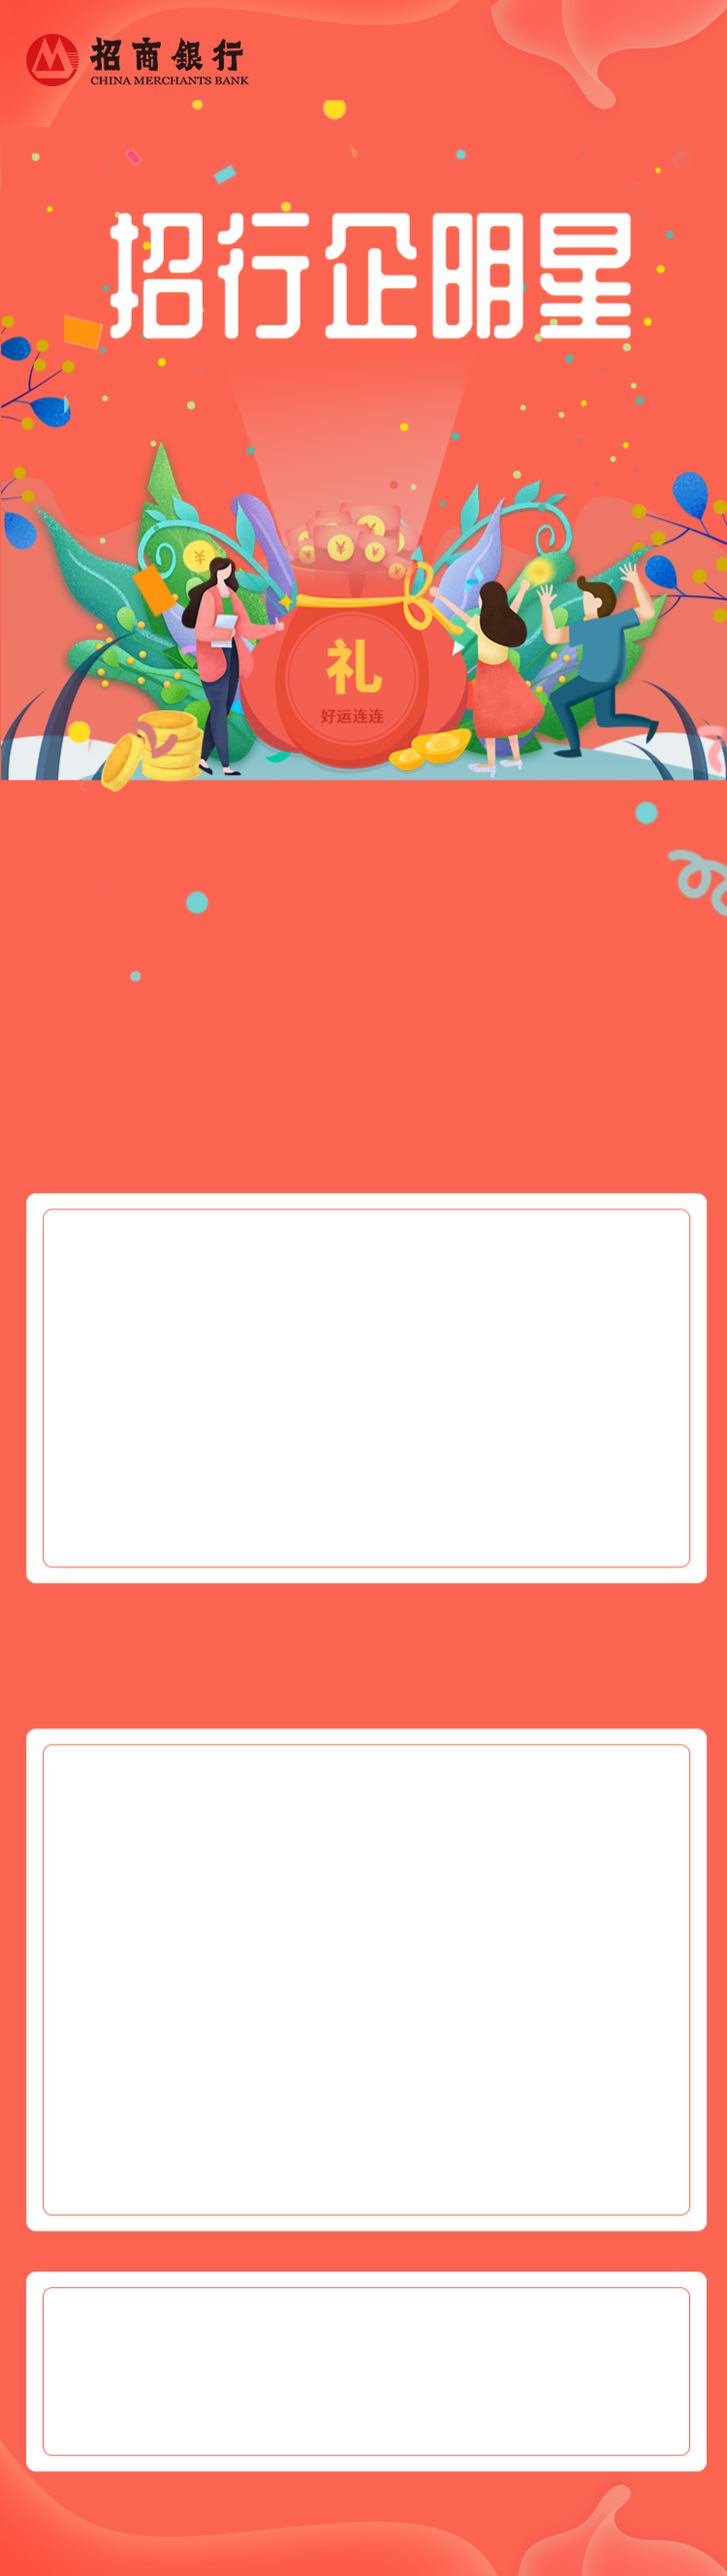
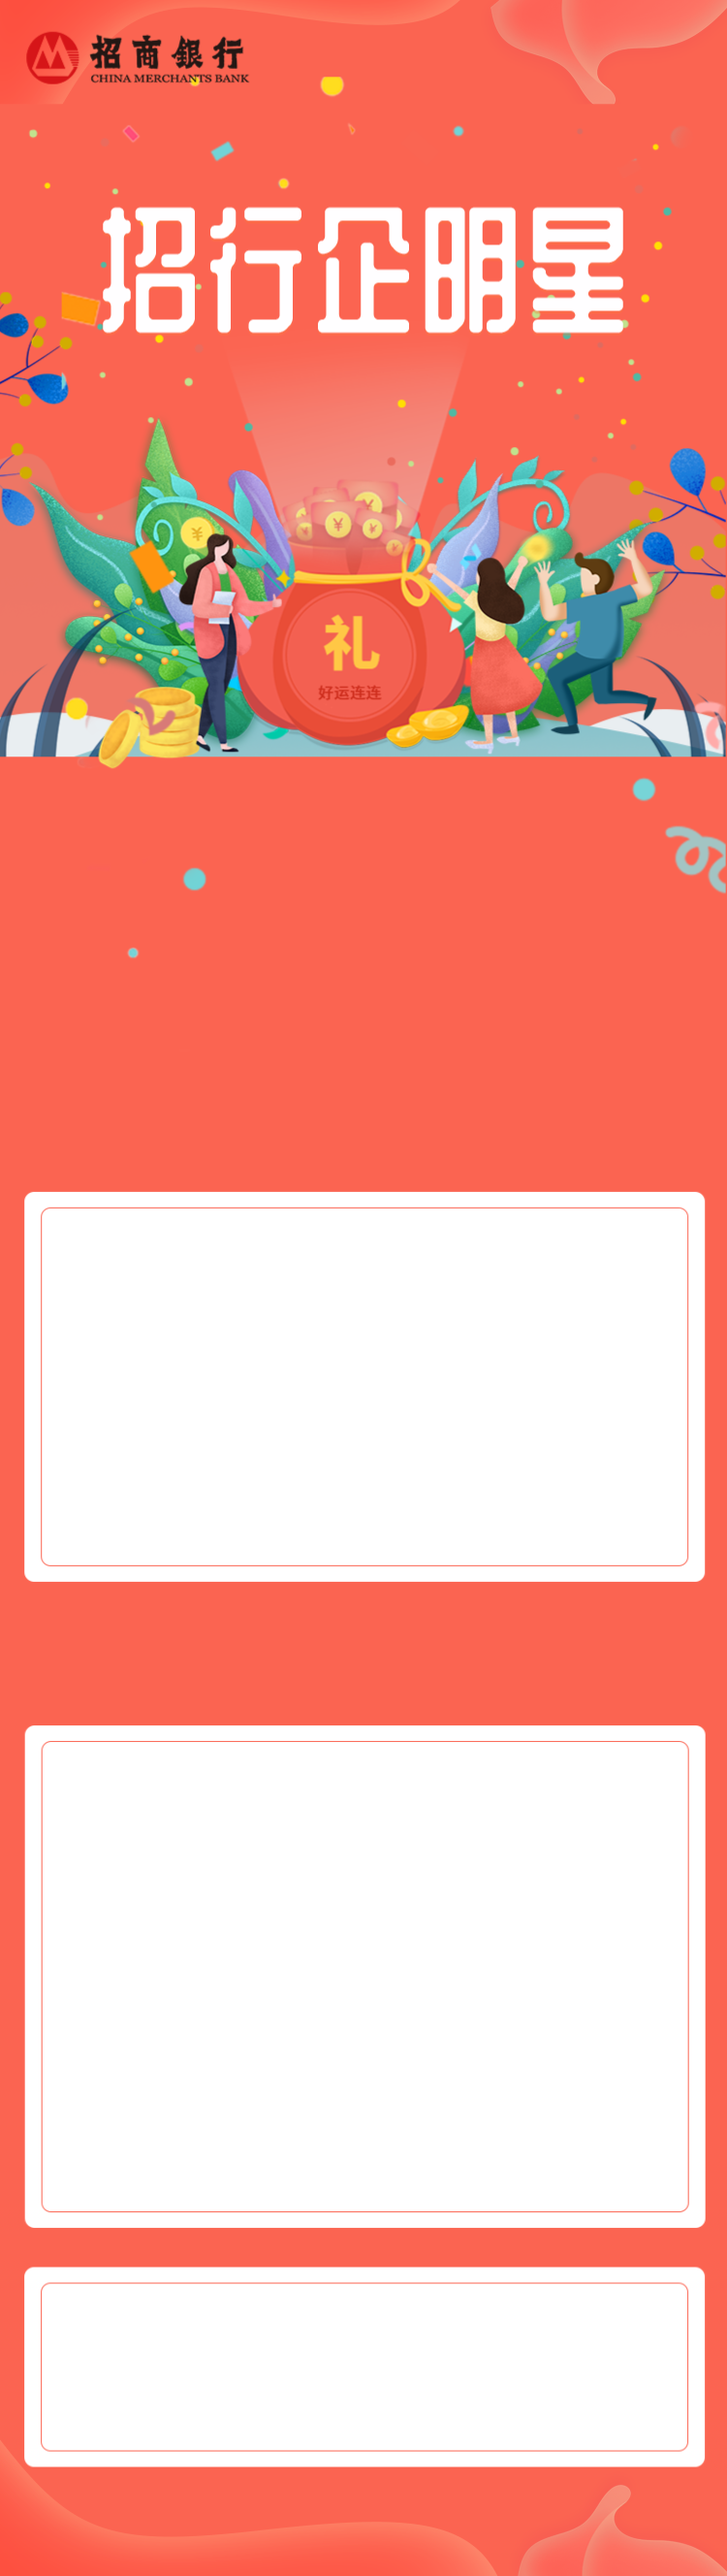
1

diff --git a/template/src/components/Preview.vue b/template/src/components/Preview.vue
@@ -139,7 +139,7 @@ export default {
 
   #subregion-title-top
     position absolute
-    top 405px
+    top 397px
     left 128px
     width 120px
     height 53px
@@ -148,14 +148,14 @@ export default {
 
   #slide-banner
     position absolute
-    top 463px
+    top 455px
     left 18px
     width 339px
     height 81px
     z-index 1
   #slide-banner-title
     position absolute
-    top 488px
+    top 477px
     left 107px
     width 170px
     height 16px
@@ -163,7 +163,7 @@ export default {
     text-align center
   #slide-banner-subtitle
     position absolute
-    top 510px
+    top 500px
     left 107px
     width 170px
     height 12px
@@ -171,7 +171,7 @@ export default {
     text-align center
   #slide-banner-guide-icon
     position absolute
-    top 475px
+    top 467px
     left 283px
     width 54px
     height 54px
@@ -195,7 +195,7 @@ export default {
 
   #banner-title-1
     position absolute
-    top 655px
+    top 654px
     left 44px
     width 200px
     height 25px
@@ -203,7 +203,7 @@ export default {
 
   #banner-subtitle-1
     position absolute
-    top 681px
+    top 680px
     left 44px
     width 200px
     height 15px
@@ -211,25 +211,23 @@ export default {
 
   #guide-icon-1
     position absolute
-    top 656px
+    top 655px
     left 242px
     width 94px
     height 30px
-    
     z-index 2
 
   #banner-background-img-1
     position absolute
-    top 632px
+    top 631px
     left 29px
     width 319px
     height 80px
-    
     z-index 1
 
   #banner-title-2
     position absolute
-    top 743px
+    top 742px
     left 44px
     width 200px
     height 25px
@@ -237,7 +235,7 @@ export default {
 
   #banner-subtitle-2
     position absolute
-    top 769px
+    top 768px
     left 44px
     width 200px
     height 15px
@@ -245,16 +243,15 @@ export default {
 
   #guide-icon-2
     position absolute
-    top 744px
+    top 743px
     left 242px
     width 94px
     height 30px
-    
     z-index 2
 
   #banner-background-img-2
     position absolute
-    top 720px
+    top 719px
     left 29px
     width 319px
     height 80px
@@ -309,17 +306,16 @@ export default {
 
   #banner-title-4
     position absolute
-    top 992px
+    top 990px
     left 29px
     width 125px
     height 25px
-    
     z-index 2
 
   #banner-subtitle-4
     position absolute
-    top 1021px
-    left 28px
+    top 1019px
+    left 29px
     width 125px
     height 25px
     display flex
@@ -328,25 +324,23 @@ export default {
 
   #guide-icon-4
     position absolute
-    top 1004px
+    top 1002px
     left 245px
     width 94px
     height 30px
-    
     z-index 2
 
   #banner-background-img-4
     position absolute
-    top 985px
+    top 983px
     left 29px
     width 319px
     height 70px
-    
     z-index 1
 
   #banner-title-5
     position absolute
-    top 1070px
+    top 1068px
     left 29px
     width 125px
     height 25px
@@ -354,7 +348,7 @@ export default {
 
   #banner-subtitle-5
     position absolute
-    top 1099px
+    top 1097px
     left 29px
     width 125px
     height 25px
@@ -364,7 +358,7 @@ export default {
 
   #guide-icon-5
     position absolute
-    top 1082px
+    top 1080px
     left 245px
     width 94px
     height 30px
@@ -372,7 +366,7 @@ export default {
 
   #banner-background-img-5
     position absolute
-    top 1063px
+    top 1061px
     left 29px
     width 319px
     height 70px
@@ -388,7 +382,7 @@ export default {
 
   #fixed-banner
     position absolute
-    top 1187px
+    top 1185px
     left 29px
     width 319px
     height 70px
